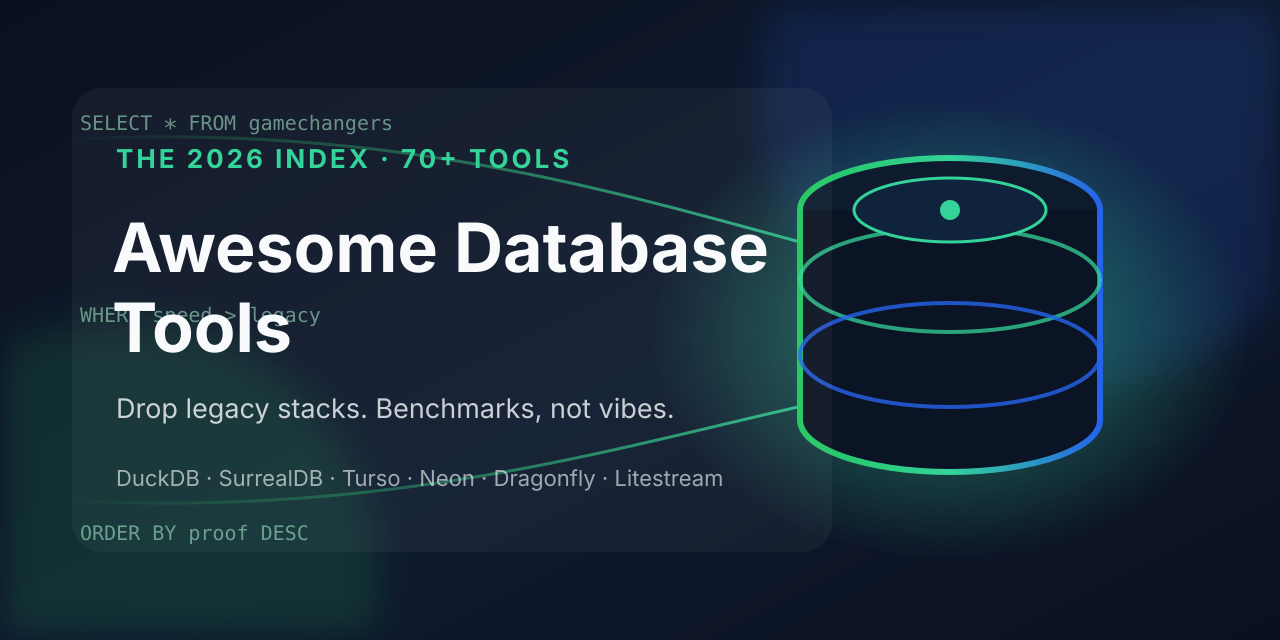
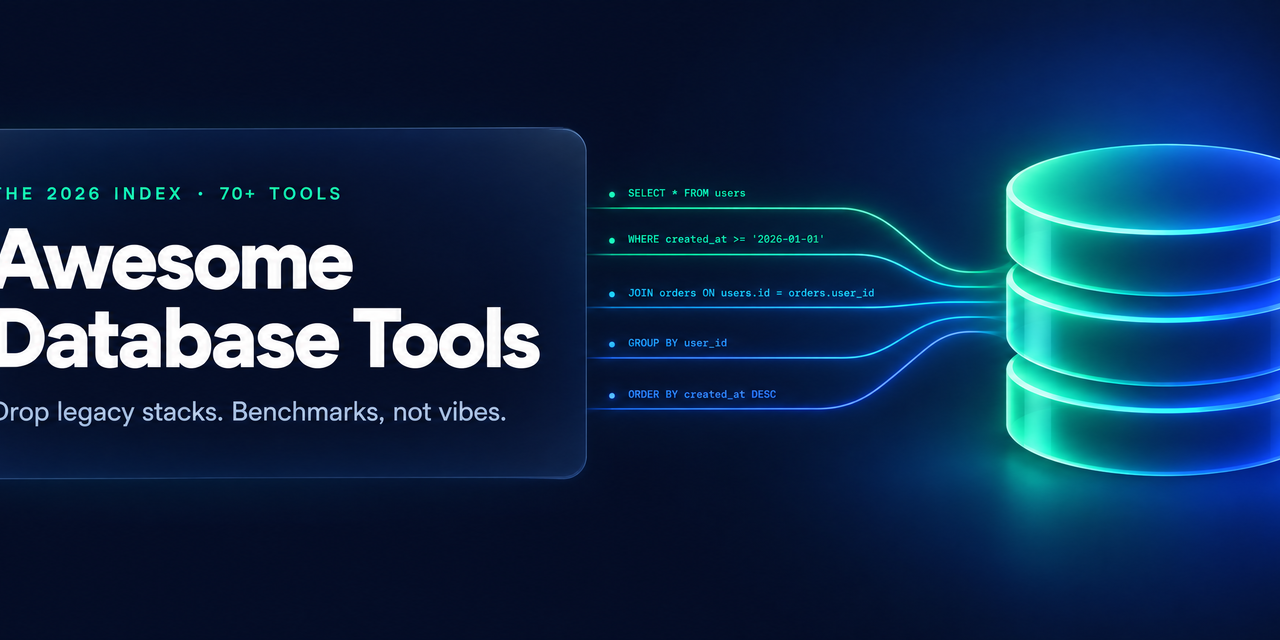
feat: premium hero art via GPT Image 2.5 (Higgsfield)
Generated with [Devin](https://devin.ai)

diff --git a/docs/assets/README.md b/docs/assets/README.md
@@ -2,10 +2,10 @@
 
 | File | Size | Provenance |
 |------|------|-----------|
-| `social-preview.svg` | 1280×640 | Deterministic vector art, authored in-repo |
-| `social-preview.png` | 1280×640 | `rsvg-convert` render of the SVG — GitHub social preview |
-| `hero.png` | 1600×800 | `magick` up-scale of the PNG — README hero |
-| `IMAGE-PROMPT-CHATGPT.md` | — | Prompt to regenerate a premium AI-rendered version |
+| `hero-ai.png` | 2688×1152 | **GPT Image 2.5 via Higgsfield CLI** (2026-10-22), prompt in `IMAGE-PROMPT-CHATGPT.md` |
+| `social-preview.png` | 1280×640 | Crop/resize of `hero-ai.png` — GitHub social preview |
+| `hero.png` | 1600×800 | Resize of `hero-ai.png` — README hero |
+| `social-preview.svg` | 1280×640 | Deterministic vector fallback (pre-AI version) |
 
-No external image API key was available at generation time; the SVG is the
-source of truth. See `IMAGE-PROMPT-CHATGPT.md` for the AI-art upgrade path.
+Generated with `higgsfield generate create gpt_image_2_5` — see
+`IMAGE-PROMPT-CHATGPT.md` for the exact prompt and regeneration steps.

diff --git a/CHANGELOG.md b/CHANGELOG.md
@@ -10,3 +10,4 @@
 - Decision matrix + 2026 recommended stack + Agent Query API
 - Deterministic premium social-preview assets (SVG + PNG 1280×640, hero 1600×800)
 - `docs/assets/IMAGE-PROMPT-CHATGPT.md` — prompt to upgrade the hero art
+- Premium hero art: GPT Image 2.5 via Higgsfield CLI (2688×1152 → social-preview + hero); SVG kept as fallback
